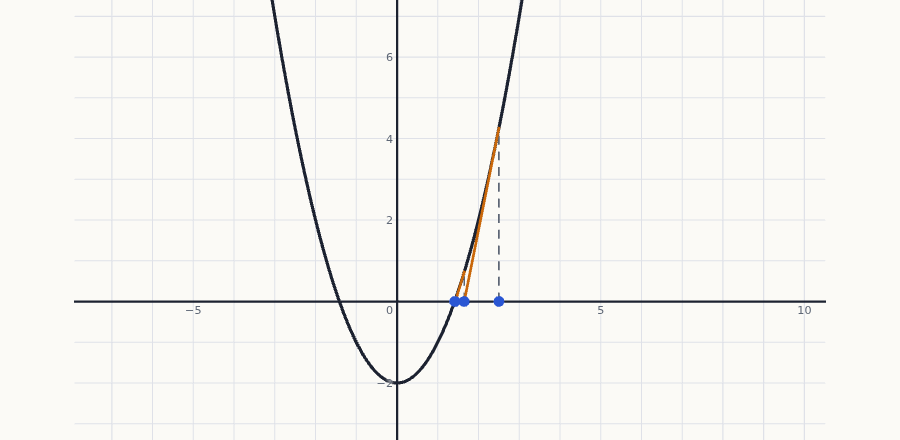
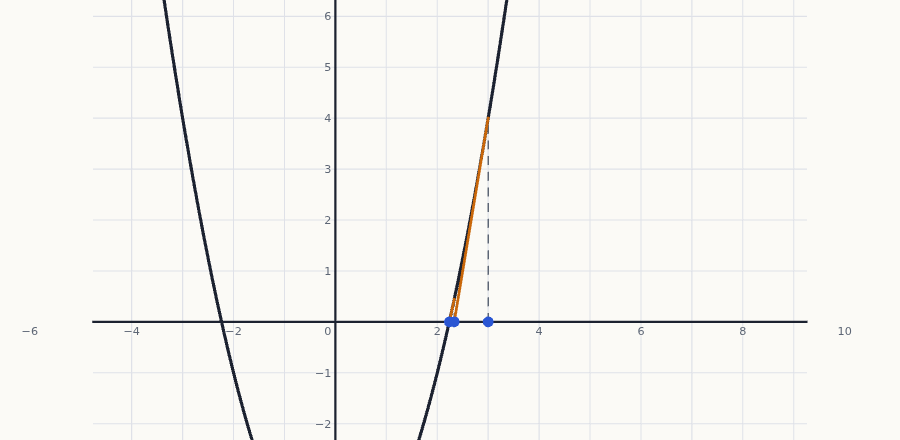
Tema 2.4: Newton sin figura estática; el interactivo (ahora con x²−5, x₀=3 y lectura de la fórmula) ocupa su lugar
Claude-Session: https://claude.ai/code/session_01M7UdAgEeQRHcArVqwGasqt

diff --git a/temas/tema_2_4_newton_punto_fijo.html b/temas/tema_2_4_newton_punto_fijo.html
@@ -95,33 +95,9 @@ svg.fig .t24-lab{font-size:13px;fill:var(--fg)}
   <span class="src" data-l="L" data-ref="Larson §3.8, Figura 3.60, p. 225">L p.225</span>
 </div>
 
-<figure>
-<svg class="fig" viewBox="0 0 640 300" role="img" aria-label="Método de Newton para f(x)=x al cuadrado menos 5, empezando en x0=3: la tangente en x0 corta el eje en x1=7/3 y la tangente en x1 corta el eje muy cerca de la raíz de 5">
-  <!-- eje x (y=0 en py=215) -->
-  <line class="ax" x1="30" y1="215" x2="625" y2="215"/>
-  <!-- curva f(x)=x^2-5 -->
-  <path class="a" d="M50.0 297.5 L66.5 292.9 L83.0 288.2 L99.5 283.3 L116.0 278.3 L132.5 273.1 L149.0 267.8 L165.5 262.3 L182.0 256.7 L198.5 250.9 L215.0 245.0 L231.5 238.9 L248.0 232.7 L264.5 226.3 L281.0 219.8 L297.5 213.1 L314.0 206.3 L330.5 199.3 L347.0 192.2 L363.5 184.9 L380.0 177.5 L396.5 169.9 L413.0 162.2 L429.5 154.3 L446.0 146.3 L462.5 138.1 L479.0 129.8 L495.5 121.3 L512.0 112.7 L528.5 103.9 L545.0 95.0 L561.5 85.9 L578.0 76.7"/>
-  <!-- tangente 1 en x0=3 -->
-  <line class="t24-tan" x1="264.5" y1="248.0" x2="584.6" y2="73.4"/>
-  <!-- tangente 2 en x1=7/3 -->
-  <line class="t24-tan" x1="248.0" y1="234.3" x2="413.0" y2="164.3"/>
-  <!-- verticales -->
-  <line class="t24-dash" x1="545" y1="215" x2="545" y2="95"/>
-  <line class="t24-dash" x1="325" y1="215" x2="325" y2="201.7"/>
-  <!-- puntos sobre la curva -->
-  <circle class="pt" cx="545" cy="95" r="5"/><circle class="pt" cx="325" cy="201.7" r="5"/>
-  <!-- iterantes sobre el eje -->
-  <circle class="pb" cx="545" cy="215" r="5"/><circle class="pb" cx="325" cy="215" r="5"/>
-  <circle class="t24-root" cx="292.9" cy="215" r="4.5"/>
-  <text class="t24-lab" x="545" y="240" text-anchor="middle">x₀ = 3</text>
-  <text class="t24-lab" x="333" y="240" text-anchor="middle">x₁ = 7/3</text>
-  <text class="sm" x="285" y="262" text-anchor="middle">x₂ ≈ 2.2381</text>
-  <text class="sm" x="285" y="279" text-anchor="middle">raíz √5 ≈ 2.2361 (círculo vacío)</text>
-  <text class="sm" x="560" y="70" text-anchor="middle">f(x) = x² − 5</text>
-  <text class="sm" x="405" y="205">tangente en x₀</text>
-  <text class="sm" x="262" y="232" transform="rotate(-25 262 232)">tangente en x₁</text>
-</svg>
-<figcaption>Newton para $f(x)=x^2-5$ con $x_0=3$: la tangente en $(x_0,f(x_0))$ corta el eje en $x_1=x_0-\frac{f(x_0)}{f'(x_0)}=\frac73$; repetir desde $x_1$ da $x_2\approx2.2381$, a $2\times10^{-3}$ de $\sqrt5$. Ya en el segundo paso la tangente y la curva son casi indistinguibles.</figcaption>
+<figure class="interactivo" data-escena="newton" data-params='{"dim":2}' aria-label="Interactivo del método de Newton: tangentes sucesivas y sus cortes con el eje x">
+  <img class="int-static" src="../assets/img/int_newton.png" alt="Interactivo del método de Newton: tangentes sucesivas y sus cortes con el eje x">
+  <figcaption>Interactivo propio. Por defecto es el ejemplo de $\sqrt5$ con $f(x)=x^2-5$ y $x_0=3$: la tangente en $(x_0,f(x_0))$ corta el eje en $x_1=x_0-\frac{f(x_0)}{f'(x_0)}=\frac73$ y la siguiente da $x_2\approx2.2381$, a $2\times10^{-3}$ de $\sqrt5$. En la lectura «Fórmula» ves el último paso con números. Elige la función y el punto inicial $x_0$ y aumenta los pasos: cada tangente (naranja) corta al eje $x$ en la siguiente aproximación. Prueba $x^3-2x+2$ con $x_0=0$ (la sucesión salta entre $0$ y $1$ y nunca converge) y $\sqrt[3]{x}$ (cada paso duplica la distancia al origen). Los valores mostrados son los de la iteración $x_{n+1}=x_n-f(x_n)/f'(x_n)$. <span class="src" data-l="P" data-ref="Explicación propia; algoritmo: U §2.4.2 p. 88">P</span></figcaption>
 </figure>
 
 <h3>De la idea a la fórmula</h3>
@@ -168,8 +144,8 @@ svg.fig .t24-lab{font-size:13px;fill:var(--fg)}
     <li>$x_1=3-\dfrac{4}{6}=\dfrac73\approx2.3333$. (Es justo la fórmula: $x_0-f(x_0)/f'(x_0)$.)</li>
     <li>Repetimos en $x_1$: $f(\frac73)=\frac{49}{9}-5=\frac49$, $f'(\frac73)=\frac{14}3$, así que $x_2=\frac73-\frac{4/9}{14/3}=\frac73-\frac2{21}=\frac{47}{21}\approx2.2381$.</li>
   </ol>
-  <p>Comparado con $\sqrt5=2.2360679\ldots$: de $x_0=3$ (error $0.76$) a $x_1$ (error $0.097$) y a $x_2$ (error $0.0020$). En dos pasos ya tienes 2 decimales correctos. Es la figura de arriba.</p>
-  <span class="src" data-l="P" data-ref="Ejemplo propio, valores comprobados con Python (fracciones exactas); misma función y x0 que la figura">P</span>
+  <p>Comparado con $\sqrt5=2.2360679\ldots$: de $x_0=3$ (error $0.76$) a $x_1$ (error $0.097$) y a $x_2$ (error $0.0020$). En dos pasos ya tienes 2 decimales correctos. Es el interactivo de abajo con sus valores por defecto.</p>
+  <span class="src" data-l="P" data-ref="Ejemplo propio, valores comprobados con Python (fracciones exactas); misma función y x₀ que el interactivo">P</span>
 </div>
 
 <div class="box ex"><span class="h">Ejemplo 2.15 de U: $\sqrt[4]5$ como raíz de $x^4-5$</span>
@@ -181,11 +157,6 @@ svg.fig .t24-lab{font-size:13px;fill:var(--fg)}
   <p>Fíjate en el patrón de los errores: $10^{-1}\to10^{-2}\to10^{-4}$. Cada error es más o menos el <i>cuadrado</i> del anterior (ver el apartado de velocidad, más abajo).</p>
   <span class="src" data-l="U" data-ref="U Ejemplo 2.15, tabla de iteraciones, p. 88">U p.88</span>
 </div>
-
-<figure class="interactivo" data-escena="newton" data-params='{"dim":2}' aria-label="Interactivo del método de Newton: tangentes sucesivas y sus cortes con el eje x">
-  <img class="int-static" src="../assets/img/int_newton.png" alt="Interactivo del método de Newton: tangentes sucesivas y sus cortes con el eje x">
-  <figcaption>Interactivo propio. Elige la función y el punto inicial $x_0$ y aumenta los pasos: cada tangente (naranja) corta al eje $x$ en la siguiente aproximación. Prueba $x^3-2x+2$ con $x_0=0$ (la sucesión salta entre $0$ y $1$ y nunca converge) y $\sqrt[3]{x}$ (cada paso duplica la distancia al origen). Los valores mostrados son los de la iteración $x_{n+1}=x_n-f(x_n)/f'(x_n)$. <span class="src" data-l="P" data-ref="Explicación propia; algoritmo: U §2.4.2 p. 88">P</span></figcaption>
-</figure>
 
 <div class="box warn"><span class="h">Error típico: aplicar Newton sin haber escrito «$f(x)=0$»</span>
   <p>Newton resuelve ecuaciones de la forma $f(x)=0$. Para $\sqrt5$ hay que decir «$\sqrt5$ es la raíz positiva de $x^2-5=0$» y tomar $f(x)=x^2-5$. Aplicar la fórmula a «$x=\sqrt5$» no significa nada. Y si la ecuación es $e^{-x}=x$, hay que pasarla a $e^{-x}-x=0$ <i>antes</i> de derivar.</p>

diff --git a/assets/escenas/newton.js b/assets/escenas/newton.js
@@ -2,15 +2,16 @@
 Interactivos.registrar('newton', function (c) {
   var T = c.THREE, H = c.H;
   var F = [
+    { n: 'x² − 5 (raíz √5)', f: function (x) { return x * x - 5; }, d: function (x) { return 2 * x; }, raiz: Math.sqrt(5), v: [0.5, 4, -2, 6], x0: [0.5, 4, 3] },
     { n: 'x² − 2 (raíz √2)', f: function (x) { return x * x - 2; }, d: function (x) { return 2 * x; }, raiz: Math.SQRT2, v: [-1, 3.6, -3, 7], x0: [0.3, 3.2, 2.5] },
     { n: 'cos x − x', f: function (x) { return Math.cos(x) - x; }, d: function (x) { return -Math.sin(x) - 1; }, raiz: 0.7390851332151607, v: [-1, 3.6, -3.5, 2.5], x0: [-0.5, 3, 2] },
     { n: 'x³ − 2x + 2 (cicla con x₀ = 0)', f: function (x) { return x * x * x - 2 * x + 2; }, d: function (x) { return 3 * x * x - 2; }, raiz: -1.7692923542386314, v: [-3, 3, -4, 8], x0: [-2.5, 2.5, 0] },
     { n: '∛x (diverge siempre)', f: Math.cbrt, d: function (x) { var q = Math.cbrt(x); return 1 / (3 * q * q); }, raiz: 0, v: [-4, 4, -2.5, 2.5], x0: [-1.2, 1.2, 0.5] }
   ];
   var W = function (v) { var dx = 1.5 * (v[1] - v[0]), dy = 1.5 * (v[3] - v[2]); return [v[0] - dx, v[1] + dx, v[2] - dy, v[3] + dy]; };
-  var k = 0, x0 = F[0].x0[2], n = 3;
+  var k = 0, x0 = F[0].x0[2], n = 2;
   var P = c.colores(), w, malla, ejes, curva, tang, vert, dots = [], raizPt;
-  var lx = c.lectura('xₙ'), lf = c.lectura('f(xₙ)'), le = c.lectura('|xₙ − raíz|'), lm = c.lectura('');
+  var lx = c.lectura('xₙ'), lf = c.lectura('f(xₙ)'), le = c.lectura('|xₙ − raíz|'), lm = c.lectura(''), lfo = c.lectura('Fórmula');
 
   function nuevo() {
     [ejes, curva, tang, vert, raizPt].forEach(function (o) { if (o) c.scene.remove(o); });
@@ -36,10 +37,15 @@ Interactivos.registrar('newton', function (c) {
     dots.forEach(function (d, j) { d.visible = j < xs.length; if (j < xs.length) d.mover(xs[j], 0); });
     var u = xs[xs.length - 1], fm = function (t) { return (Math.round(t * 1e6) / 1e6).toString().replace('-', '−'); };
     lx(fm(u)); lf(fm(g.f(u))); le(Math.abs(u - g.raiz) > 1e4 ? '> 10⁴' : fm(Math.abs(u - g.raiz)));
+    var sb = function (j) { return String(j).replace(/\d/g, function (d) { return '₀₁₂₃₄₅₆₇₈₉'[d]; }); }, fo = function (t) { return (Math.round(t * 1e4) / 1e4).toString().replace('-', '−'); };
+    if (xs.length > 1) {
+      var j = xs.length - 2, xj = xs[j], fj = g.f(xj), dj = g.d(xj);
+      lfo('x' + sb(j + 1) + ' = x' + sb(j) + ' − f(x' + sb(j) + ')/f′(x' + sb(j) + ') = ' + fo(xj) + ' − (' + fo(fj) + ')/(' + fo(dj) + ') = ' + fo(xs[j + 1]));
+    } else lfo('—');
     lm(parado ? 'f′(xₙ) = 0: la tangente es horizontal y no corta al eje' : '');
   }
   var sx = c.slider('x₀', F[0].x0[0], F[0].x0[1], 0.05, F[0].x0[2], function (v) { x0 = v; if (tang) calc(); });
-  c.slider('Pasos n', 1, 9, 1, 3, function (v) { n = v; if (tang) calc(); }, function (v) { return String(v); });
+  c.slider('Pasos n', 1, 9, 1, 2, function (v) { n = v; if (tang) calc(); }, function (v) { return String(v); });
   c.selector('Función ', F.map(function (g) { return g.n; }), 0, function (i) {
     k = i; nuevo(); sx.min = F[i].x0[0]; sx.max = F[i].x0[1]; sx.value = F[i].x0[2]; sx.dispatchEvent(new Event('input'));
   });
